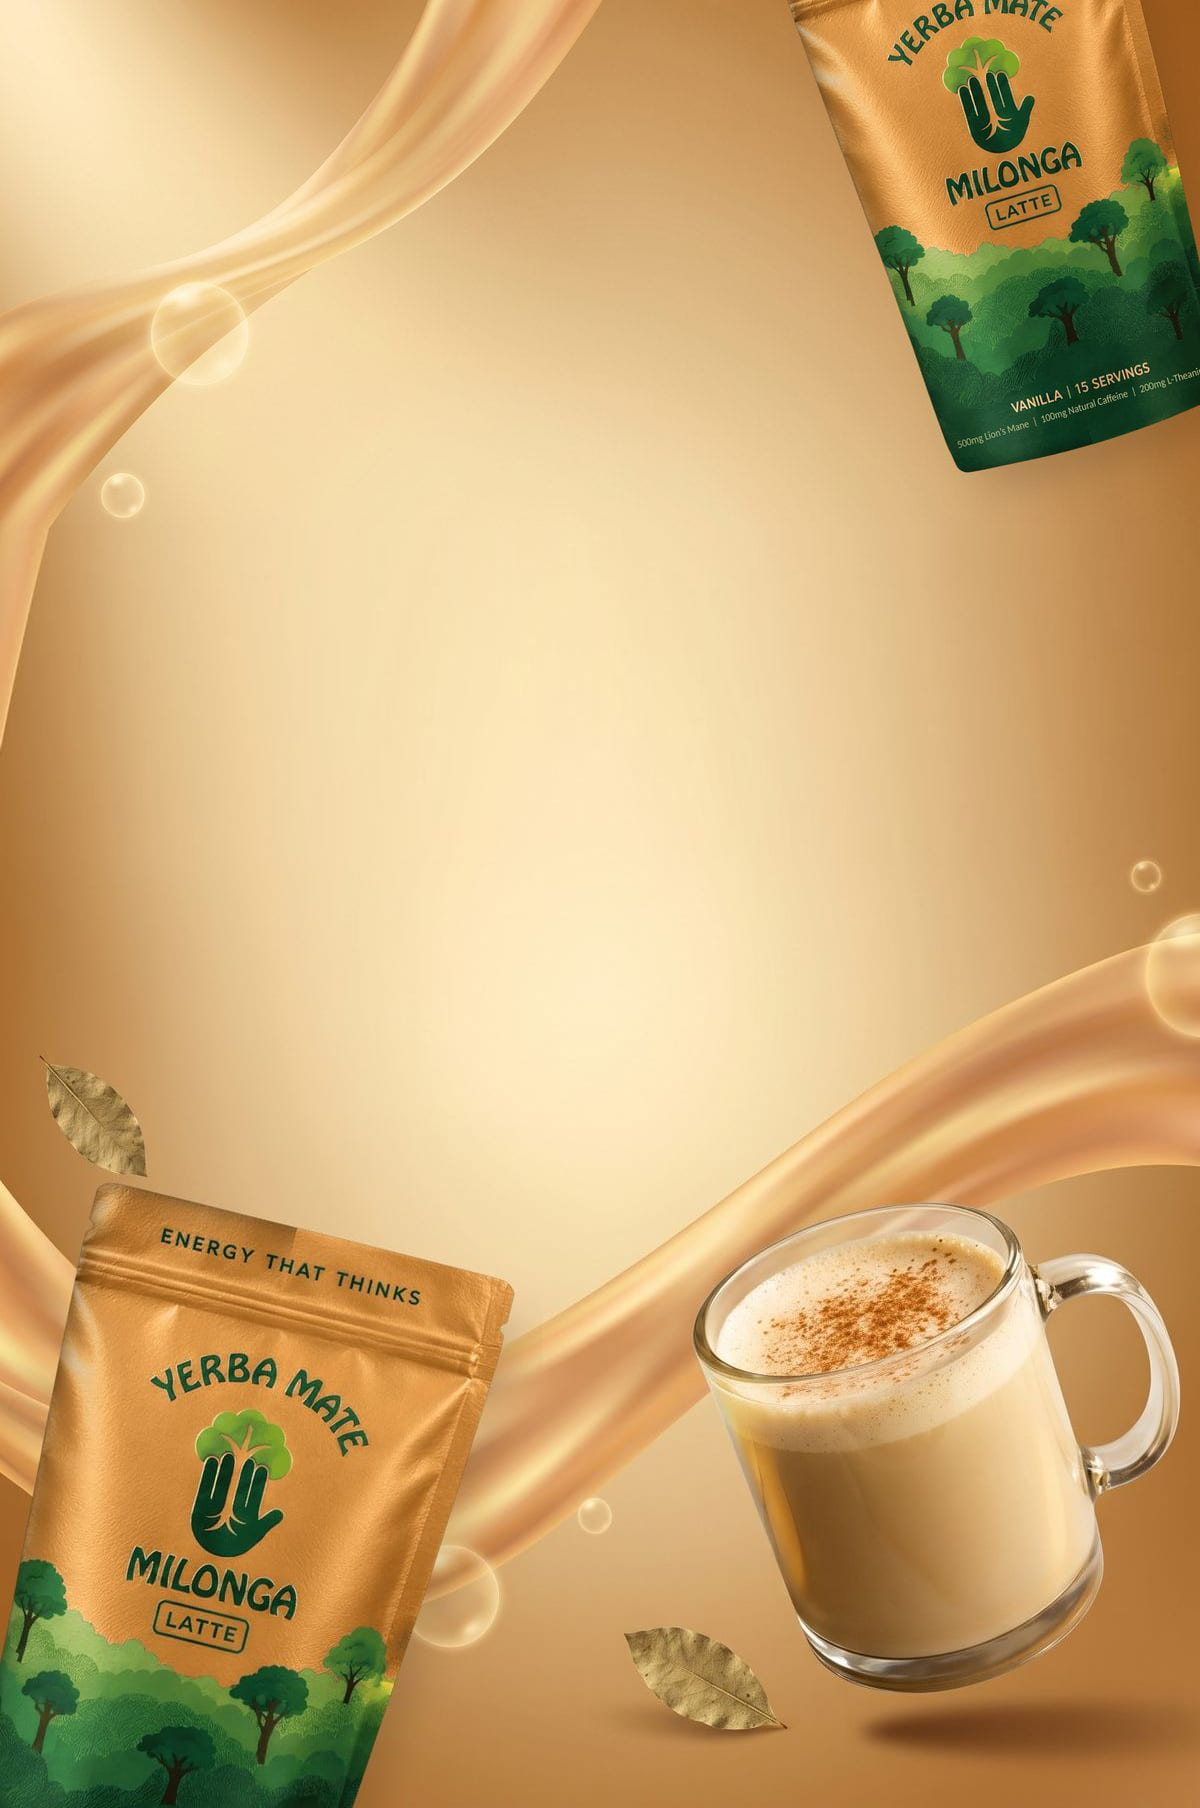
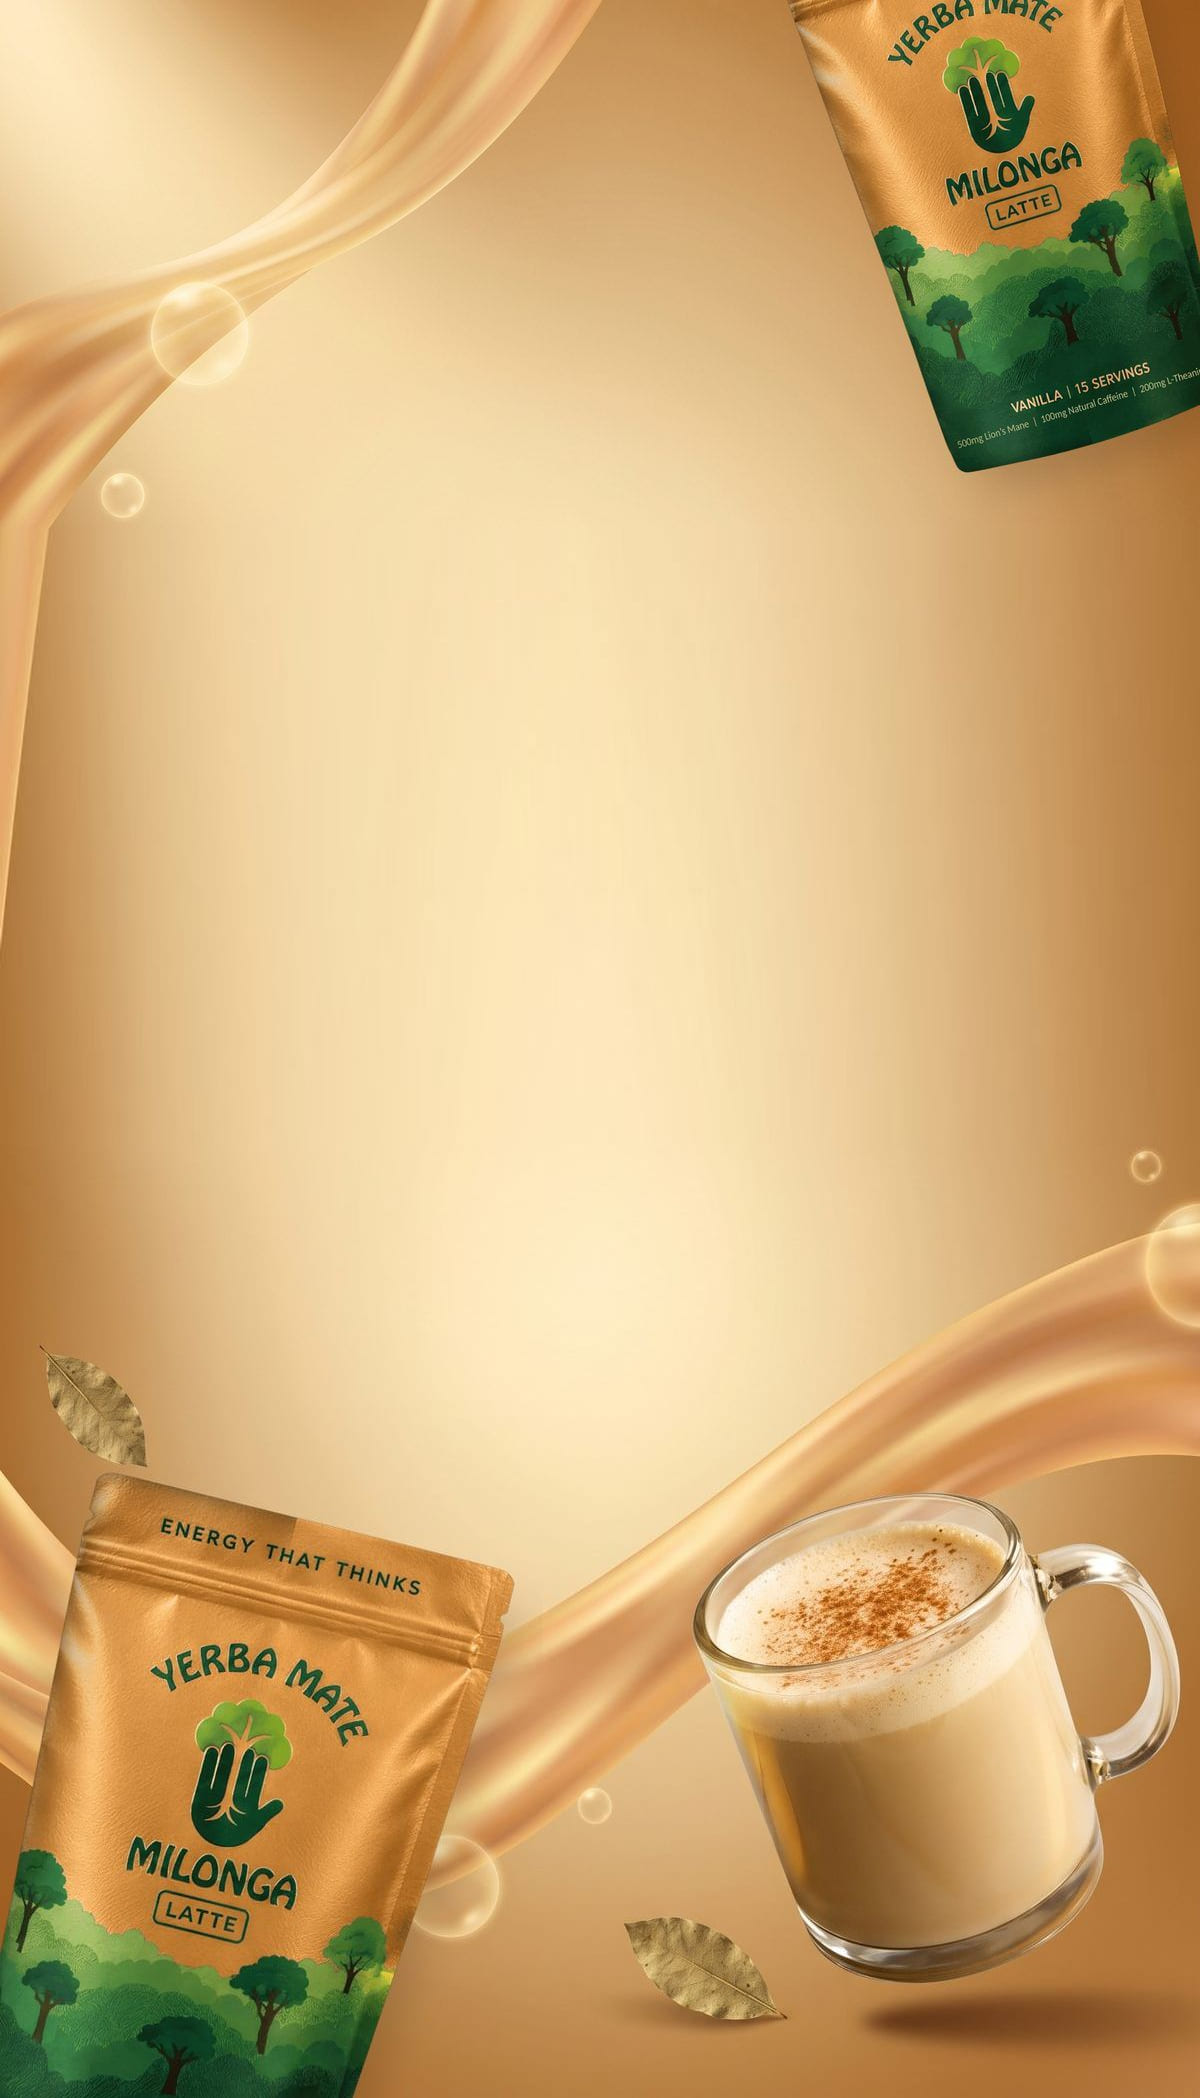
Welcome flow E1: subscribe + free frother + money-back lines under the hero button, first-cup row removed
Claude-Session: https://claude.ai/code/session_01NhEtXPnfeCJfN73SqBkUZ5

diff --git a/email-ds/exports/klaviyo/welcome-e1/welcome-e1.html b/email-ds/exports/klaviyo/welcome-e1/welcome-e1.html
@@ -21,10 +21,7 @@
     .code { font-size:24px !important; letter-spacing:4px !important; }
     .btn { padding:19px 28px !important; }
     .card { padding:36px 22px !important; }
-    .step { padding:0 3px !important; }
     .col { display:block !important; width:100% !important; padding:0 0 32px !important; }
-    .step-big { font-size:19px !important; line-height:24px !important; }
-    .step-cap { font-size:12px !important; line-height:15px !important; }
   }
   @media (prefers-color-scheme: dark) {
     .bg-hero { background-color:#F2D9A6 !important; }
@@ -39,8 +36,8 @@
 <table role="presentation" class="wrap" width="600" cellpadding="0" cellspacing="0" border="0" style="width:600px;max-width:600px;">
 
 <!-- ── 1 · THE REVEAL (gold silk, forest type) ───────────────────────── -->
-<tr><td class="bg-hero" align="center" valign="top" height="904" background="https://cdn.klaviyomail.com/company/TwvSnK/images/77f8ca1f-1973-4ad8-a8bd-2133aa45e3c2.jpeg" bgcolor="#F2D9A6" style="height:904px;background-color:#F2D9A6;background-image:url('https://cdn.klaviyomail.com/company/TwvSnK/images/77f8ca1f-1973-4ad8-a8bd-2133aa45e3c2.jpeg');background-size:cover;background-position:center top;background-repeat:no-repeat;padding:0;">
-<!--[if gte mso 9]><v:rect xmlns:v="urn:schemas-microsoft-com:vml" fill="true" stroke="false" style="width:600px;height:904px;"><v:fill type="frame" src="https://cdn.klaviyomail.com/company/TwvSnK/images/77f8ca1f-1973-4ad8-a8bd-2133aa45e3c2.jpeg" color="#F2D9A6" /><v:textbox inset="0,0,0,0"><![endif]-->
+<tr><td class="bg-hero" align="center" valign="top" height="1049" background="https://cdn.klaviyomail.com/company/TwvSnK/images/77f8ca1f-1973-4ad8-a8bd-2133aa45e3c2.jpeg" bgcolor="#F2D9A6" style="height:1049px;background-color:#F2D9A6;background-image:url('https://cdn.klaviyomail.com/company/TwvSnK/images/77f8ca1f-1973-4ad8-a8bd-2133aa45e3c2.jpeg');background-size:cover;background-position:center top;background-repeat:no-repeat;padding:0;">
+<!--[if gte mso 9]><v:rect xmlns:v="urn:schemas-microsoft-com:vml" fill="true" stroke="false" style="width:600px;height:1049px;"><v:fill type="frame" src="https://cdn.klaviyomail.com/company/TwvSnK/images/77f8ca1f-1973-4ad8-a8bd-2133aa45e3c2.jpeg" color="#F2D9A6" /><v:textbox inset="0,0,0,0"><![endif]-->
 <div class="hero-in" style="padding:32px 40px 0;font-family:'Montserrat','Helvetica Neue',Helvetica,Arial,sans-serif;color:#004D27;text-align:center;">
 <a href="https://milonga.life/?utm_source=klaviyo&amp;utm_medium=email&amp;utm_campaign=welcome_mystery_offer&amp;utm_content=e1_logo" target="_blank"><img src="https://cdn.klaviyomail.com/company/TwvSnK/images/b6a03046-605a-4e87-b22f-a530be1633e3.png" width="57" height="60" alt="Milonga" style="display:block;margin:0 auto;width:57px;height:60px;border:0;"></a>
 <div style="height:152px;line-height:152px;font-size:0;">&nbsp;</div>
@@ -56,6 +53,8 @@
 <div style="padding-top:18px;"><!--[if mso]>
 <v:roundrect xmlns:v="urn:schemas-microsoft-com:vml" xmlns:w="urn:schemas-microsoft-com:office:word" href="https://milonga.life/discount/WELCOME15?redirect=%2Fproducts%2Fthe-original-mate-latte&amp;utm_source=klaviyo&amp;utm_medium=email&amp;utm_campaign=welcome_mystery_offer&amp;utm_content=e1_hero_button" style="height:56px;v-text-anchor:middle;width:300px;" arcsize="50%" stroke="f" fillcolor="#004D27"><w:anchorlock/><center style="color:#F0EFDF;font-family:Arial,sans-serif;font-size:16px;font-weight:bold;letter-spacing:2px;">Claim my 15% off</center></v:roundrect>
 <![endif]--><!--[if !mso]><!-- --><a href="https://milonga.life/discount/WELCOME15?redirect=%2Fproducts%2Fthe-original-mate-latte&amp;utm_source=klaviyo&amp;utm_medium=email&amp;utm_campaign=welcome_mystery_offer&amp;utm_content=e1_hero_button" target="_blank" class="btn" style="display:inline-block;background-color:#004D27;border-radius:999px;padding:20px 40px;font-family:'Montserrat','Helvetica Neue',Helvetica,Arial,sans-serif;font-size:16px;line-height:16px;font-weight:700;letter-spacing:2px;text-transform:uppercase;color:#F0EFDF;text-decoration:none;box-shadow:0 4px 0 #00351B;">Claim my 15% off</a><!--<![endif]--></div>
+<div style="padding-top:18px;max-width:400px;margin:0 auto;font-size:15px;line-height:22px;font-weight:500;color:#12331F;">Or subscribe and <strong style="font-weight:700;color:#004D27;">save 30% on 30 or 60&nbsp;servings</strong>, plus a <strong style="font-weight:700;color:#004D27;">free milk frother</strong> in your first&nbsp;box.</div>
+<div style="padding-top:10px;font-size:12px;line-height:16px;font-weight:700;letter-spacing:2px;text-transform:uppercase;color:#004D27;">&#10003;&nbsp; 30-day money-back guarantee</div>
 </div>
 <!--[if gte mso 9]></v:textbox></v:rect><![endif]-->
 </td></tr>
@@ -93,28 +92,6 @@
 <tr><td class="pad bg-s2b" align="center" bgcolor="#017251" style="background-color:#017251;padding:4px 20px 56px;font-family:'Montserrat','Helvetica Neue',Helvetica,Arial,sans-serif;">
 <div style="padding-bottom:16px;font-size:12px;line-height:16px;font-weight:700;letter-spacing:3px;text-transform:uppercase;color:#E3BC62;">Plus, from the yerba mate</div>
 <div style="font-size:0;line-height:0;"><span class="benefit" style="display:inline-block;margin:0 4px 10px;background-color:#E3BC62;border-radius:999px;padding:9px 18px 9px 12px;font-family:'Montserrat','Helvetica Neue',Helvetica,Arial,sans-serif;font-size:12px;line-height:24px;font-weight:700;letter-spacing:1.2px;text-transform:uppercase;color:#004D27;white-space:nowrap;box-shadow:0 3px 0 #C9A24E;"><img src="https://cdn.klaviyomail.com/company/TwvSnK/images/94fbbc3b-39e1-406c-ab7d-58e127b459ad.png" width="24" height="24" alt="" role="presentation" style="display:inline-block;width:24px;height:24px;vertical-align:middle;border:0;margin-right:7px;"><span style="vertical-align:middle;">Antioxidants &amp; vitamins</span></span><span class="benefit" style="display:inline-block;margin:0 4px 10px;background-color:#E3BC62;border-radius:999px;padding:9px 18px 9px 12px;font-family:'Montserrat','Helvetica Neue',Helvetica,Arial,sans-serif;font-size:12px;line-height:24px;font-weight:700;letter-spacing:1.2px;text-transform:uppercase;color:#004D27;white-space:nowrap;box-shadow:0 3px 0 #C9A24E;"><img src="https://cdn.klaviyomail.com/company/TwvSnK/images/2ecca797-8785-4aba-a0e5-7f1713992824.png" width="24" height="24" alt="" role="presentation" style="display:inline-block;width:24px;height:24px;vertical-align:middle;border:0;margin-right:7px;"><span style="vertical-align:middle;">Gut &amp; immune support</span></span><span class="benefit" style="display:inline-block;margin:0 4px 10px;background-color:#E3BC62;border-radius:999px;padding:9px 18px 9px 12px;font-family:'Montserrat','Helvetica Neue',Helvetica,Arial,sans-serif;font-size:12px;line-height:24px;font-weight:700;letter-spacing:1.2px;text-transform:uppercase;color:#004D27;white-space:nowrap;box-shadow:0 3px 0 #C9A24E;"><img src="https://cdn.klaviyomail.com/company/TwvSnK/images/dd525317-14ee-4d17-876d-25ac373c7a45.png" width="24" height="24" alt="" role="presentation" style="display:inline-block;width:24px;height:24px;vertical-align:middle;border:0;margin-right:7px;"><span style="vertical-align:middle;">Metabolism support</span></span></div>
-</td></tr>
-
-<!-- your first cup: 8 oz, always -->
-<tr><td class="pad bg-page" align="center" bgcolor="#F0EFDF" style="background-color:#F0EFDF;padding:40px 40px 0;font-family:'Montserrat','Helvetica Neue',Helvetica,Arial,sans-serif;">
-<div style="font-size:12px;line-height:16px;font-weight:700;letter-spacing:3px;text-transform:uppercase;color:#004D27;">Your first cup &middot; hot or iced</div>
-<div style="padding:16px 0 0;"><table role="presentation" width="100%" cellpadding="0" cellspacing="0" border="0"><tr>
-<td class="step" width="33%" valign="top" align="center" style="width:33%;padding:0 0px;">
-<table role="presentation" width="100%" cellpadding="0" cellspacing="0" border="0"><tr><td align="center" bgcolor="#004D27" style="background-color:#004D27;border-radius:20px;padding:18px 8px 16px;font-family:'Montserrat','Helvetica Neue',Helvetica,Arial,sans-serif;">
-<div class="step-big" style="font-family:'Times New Roman',Times,Georgia,serif;font-size:30px;line-height:34px;font-weight:700;color:#E3BC62;white-space:nowrap;">2.5 tbsp</div>
-<div class="step-cap" style="padding-top:6px;font-size:13px;line-height:17px;font-weight:500;color:#FFFFFF;">of Mate Latte</div>
-</td></tr></table></td>
-<td class="step" width="33%" valign="top" align="center" style="width:33%;padding:0 6px;">
-<table role="presentation" width="100%" cellpadding="0" cellspacing="0" border="0"><tr><td align="center" bgcolor="#004D27" style="background-color:#004D27;border-radius:20px;padding:18px 8px 16px;font-family:'Montserrat','Helvetica Neue',Helvetica,Arial,sans-serif;">
-<div class="step-big" style="font-family:'Times New Roman',Times,Georgia,serif;font-size:30px;line-height:34px;font-weight:700;color:#E3BC62;white-space:nowrap;">8 oz</div>
-<div class="step-cap" style="padding-top:6px;font-size:13px;line-height:17px;font-weight:500;color:#FFFFFF;">milk or water</div>
-</td></tr></table></td>
-<td class="step" width="33%" valign="top" align="center" style="width:33%;padding:0 0px;">
-<table role="presentation" width="100%" cellpadding="0" cellspacing="0" border="0"><tr><td align="center" bgcolor="#004D27" style="background-color:#004D27;border-radius:20px;padding:18px 8px 16px;font-family:'Montserrat','Helvetica Neue',Helvetica,Arial,sans-serif;">
-<div class="step-big" style="font-family:'Times New Roman',Times,Georgia,serif;font-size:30px;line-height:34px;font-weight:700;color:#E3BC62;white-space:nowrap;">30 sec</div>
-<div class="step-cap" style="padding-top:6px;font-size:13px;line-height:17px;font-weight:500;color:#FFFFFF;">stir or froth</div>
-</td></tr></table></td>
-</tr></table></div>
 </td></tr>
 
 <!-- ── 3 · THE OFFER, AGAIN (forest card on beige) ──────────────────── -->

diff --git a/email-ds/refine/welcome-e1.html b/email-ds/refine/welcome-e1.html
@@ -36,10 +36,7 @@ body{margin:0;background:#2B3A31;padding:28px 0 60px}
     .code { font-size:24px !important; letter-spacing:4px !important; }
     .btn { padding:19px 28px !important; }
     .card { padding:36px 22px !important; }
-    .step { padding:0 3px !important; }
     .col { display:block !important; width:100% !important; padding:0 0 32px !important; }
-    .step-big { font-size:19px !important; line-height:24px !important; }
-    .step-cap { font-size:12px !important; line-height:15px !important; }
   }
   @media (prefers-color-scheme: dark) {
     .bg-hero { background-color:#F2D9A6 !important; }
@@ -54,8 +51,8 @@ body{margin:0;background:#2B3A31;padding:28px 0 60px}
 <table role="presentation" class="wrap" width="600" cellpadding="0" cellspacing="0" border="0" style="width:600px;max-width:600px;">
 
 <!-- ── 1 · THE REVEAL (gold silk, forest type) ───────────────────────── -->
-<tr><td class="bg-hero" align="center" valign="top" height="904" background="../exports/klaviyo/welcome-e1/img/hero-bg.jpg" bgcolor="#F2D9A6" style="height:904px;background-color:#F2D9A6;background-image:url('../exports/klaviyo/welcome-e1/img/hero-bg.jpg');background-size:cover;background-position:center top;background-repeat:no-repeat;padding:0;">
-<!--[if gte mso 9]><v:rect xmlns:v="urn:schemas-microsoft-com:vml" fill="true" stroke="false" style="width:600px;height:904px;"><v:fill type="frame" src="../exports/klaviyo/welcome-e1/img/hero-bg.jpg" color="#F2D9A6" /><v:textbox inset="0,0,0,0"><![endif]-->
+<tr><td class="bg-hero" align="center" valign="top" height="1049" background="../exports/klaviyo/welcome-e1/img/hero-bg.jpg" bgcolor="#F2D9A6" style="height:1049px;background-color:#F2D9A6;background-image:url('../exports/klaviyo/welcome-e1/img/hero-bg.jpg');background-size:cover;background-position:center top;background-repeat:no-repeat;padding:0;">
+<!--[if gte mso 9]><v:rect xmlns:v="urn:schemas-microsoft-com:vml" fill="true" stroke="false" style="width:600px;height:1049px;"><v:fill type="frame" src="../exports/klaviyo/welcome-e1/img/hero-bg.jpg" color="#F2D9A6" /><v:textbox inset="0,0,0,0"><![endif]-->
 <div class="hero-in" style="padding:32px 40px 0;font-family:'Montserrat','Helvetica Neue',Helvetica,Arial,sans-serif;color:#004D27;text-align:center;">
 <a href="https://milonga.life/?utm_source=klaviyo&amp;utm_medium=email&amp;utm_campaign=welcome_mystery_offer&amp;utm_content=e1_logo" target="_blank"><img src="../exports/klaviyo/welcome-e1/img/logo-green.png" width="57" height="60" alt="Milonga" style="display:block;margin:0 auto;width:57px;height:60px;border:0;"></a>
 <div style="height:152px;line-height:152px;font-size:0;">&nbsp;</div>
@@ -71,6 +68,8 @@ body{margin:0;background:#2B3A31;padding:28px 0 60px}
 <div style="padding-top:18px;"><!--[if mso]>
 <v:roundrect xmlns:v="urn:schemas-microsoft-com:vml" xmlns:w="urn:schemas-microsoft-com:office:word" href="https://milonga.life/discount/WELCOME15?redirect=%2Fproducts%2Fthe-original-mate-latte&amp;utm_source=klaviyo&amp;utm_medium=email&amp;utm_campaign=welcome_mystery_offer&amp;utm_content=e1_hero_button" style="height:56px;v-text-anchor:middle;width:300px;" arcsize="50%" stroke="f" fillcolor="#004D27"><w:anchorlock/><center style="color:#F0EFDF;font-family:Arial,sans-serif;font-size:16px;font-weight:bold;letter-spacing:2px;">Claim my 15% off</center></v:roundrect>
 <![endif]--><!--[if !mso]><!-- --><a href="https://milonga.life/discount/WELCOME15?redirect=%2Fproducts%2Fthe-original-mate-latte&amp;utm_source=klaviyo&amp;utm_medium=email&amp;utm_campaign=welcome_mystery_offer&amp;utm_content=e1_hero_button" target="_blank" class="btn" style="display:inline-block;background-color:#004D27;border-radius:999px;padding:20px 40px;font-family:'Montserrat','Helvetica Neue',Helvetica,Arial,sans-serif;font-size:16px;line-height:16px;font-weight:700;letter-spacing:2px;text-transform:uppercase;color:#F0EFDF;text-decoration:none;box-shadow:0 4px 0 #00351B;">Claim my 15% off</a><!--<![endif]--></div>
+<div style="padding-top:18px;max-width:400px;margin:0 auto;font-size:15px;line-height:22px;font-weight:500;color:#12331F;">Or subscribe and <strong style="font-weight:700;color:#004D27;">save 30% on 30 or 60&nbsp;servings</strong>, plus a <strong style="font-weight:700;color:#004D27;">free milk frother</strong> in your first&nbsp;box.</div>
+<div style="padding-top:10px;font-size:12px;line-height:16px;font-weight:700;letter-spacing:2px;text-transform:uppercase;color:#004D27;">&#10003;&nbsp; 30-day money-back guarantee</div>
 </div>
 <!--[if gte mso 9]></v:textbox></v:rect><![endif]-->
 </td></tr>
@@ -108,28 +107,6 @@ body{margin:0;background:#2B3A31;padding:28px 0 60px}
 <tr><td class="pad bg-s2b" align="center" bgcolor="#017251" style="background-color:#017251;padding:4px 20px 56px;font-family:'Montserrat','Helvetica Neue',Helvetica,Arial,sans-serif;">
 <div style="padding-bottom:16px;font-size:12px;line-height:16px;font-weight:700;letter-spacing:3px;text-transform:uppercase;color:#E3BC62;">Plus, from the yerba mate</div>
 <div style="font-size:0;line-height:0;"><span class="benefit" style="display:inline-block;margin:0 4px 10px;background-color:#E3BC62;border-radius:999px;padding:9px 18px 9px 12px;font-family:'Montserrat','Helvetica Neue',Helvetica,Arial,sans-serif;font-size:12px;line-height:24px;font-weight:700;letter-spacing:1.2px;text-transform:uppercase;color:#004D27;white-space:nowrap;box-shadow:0 3px 0 #C9A24E;"><img src="../exports/klaviyo/welcome-e1/img/glyph-antioxidants.png" width="24" height="24" alt="" role="presentation" style="display:inline-block;width:24px;height:24px;vertical-align:middle;border:0;margin-right:7px;"><span style="vertical-align:middle;">Antioxidants &amp; vitamins</span></span><span class="benefit" style="display:inline-block;margin:0 4px 10px;background-color:#E3BC62;border-radius:999px;padding:9px 18px 9px 12px;font-family:'Montserrat','Helvetica Neue',Helvetica,Arial,sans-serif;font-size:12px;line-height:24px;font-weight:700;letter-spacing:1.2px;text-transform:uppercase;color:#004D27;white-space:nowrap;box-shadow:0 3px 0 #C9A24E;"><img src="../exports/klaviyo/welcome-e1/img/glyph-immune.png" width="24" height="24" alt="" role="presentation" style="display:inline-block;width:24px;height:24px;vertical-align:middle;border:0;margin-right:7px;"><span style="vertical-align:middle;">Gut &amp; immune support</span></span><span class="benefit" style="display:inline-block;margin:0 4px 10px;background-color:#E3BC62;border-radius:999px;padding:9px 18px 9px 12px;font-family:'Montserrat','Helvetica Neue',Helvetica,Arial,sans-serif;font-size:12px;line-height:24px;font-weight:700;letter-spacing:1.2px;text-transform:uppercase;color:#004D27;white-space:nowrap;box-shadow:0 3px 0 #C9A24E;"><img src="../exports/klaviyo/welcome-e1/img/glyph-metabolism.png" width="24" height="24" alt="" role="presentation" style="display:inline-block;width:24px;height:24px;vertical-align:middle;border:0;margin-right:7px;"><span style="vertical-align:middle;">Metabolism support</span></span></div>
-</td></tr>
-
-<!-- your first cup: 8 oz, always -->
-<tr><td class="pad bg-page" align="center" bgcolor="#F0EFDF" style="background-color:#F0EFDF;padding:40px 40px 0;font-family:'Montserrat','Helvetica Neue',Helvetica,Arial,sans-serif;">
-<div style="font-size:12px;line-height:16px;font-weight:700;letter-spacing:3px;text-transform:uppercase;color:#004D27;">Your first cup &middot; hot or iced</div>
-<div style="padding:16px 0 0;"><table role="presentation" width="100%" cellpadding="0" cellspacing="0" border="0"><tr>
-<td class="step" width="33%" valign="top" align="center" style="width:33%;padding:0 0px;">
-<table role="presentation" width="100%" cellpadding="0" cellspacing="0" border="0"><tr><td align="center" bgcolor="#004D27" style="background-color:#004D27;border-radius:20px;padding:18px 8px 16px;font-family:'Montserrat','Helvetica Neue',Helvetica,Arial,sans-serif;">
-<div class="step-big" style="font-family:'Times New Roman',Times,Georgia,serif;font-size:30px;line-height:34px;font-weight:700;color:#E3BC62;white-space:nowrap;">2.5 tbsp</div>
-<div class="step-cap" style="padding-top:6px;font-size:13px;line-height:17px;font-weight:500;color:#FFFFFF;">of Mate Latte</div>
-</td></tr></table></td>
-<td class="step" width="33%" valign="top" align="center" style="width:33%;padding:0 6px;">
-<table role="presentation" width="100%" cellpadding="0" cellspacing="0" border="0"><tr><td align="center" bgcolor="#004D27" style="background-color:#004D27;border-radius:20px;padding:18px 8px 16px;font-family:'Montserrat','Helvetica Neue',Helvetica,Arial,sans-serif;">
-<div class="step-big" style="font-family:'Times New Roman',Times,Georgia,serif;font-size:30px;line-height:34px;font-weight:700;color:#E3BC62;white-space:nowrap;">8 oz</div>
-<div class="step-cap" style="padding-top:6px;font-size:13px;line-height:17px;font-weight:500;color:#FFFFFF;">milk or water</div>
-</td></tr></table></td>
-<td class="step" width="33%" valign="top" align="center" style="width:33%;padding:0 0px;">
-<table role="presentation" width="100%" cellpadding="0" cellspacing="0" border="0"><tr><td align="center" bgcolor="#004D27" style="background-color:#004D27;border-radius:20px;padding:18px 8px 16px;font-family:'Montserrat','Helvetica Neue',Helvetica,Arial,sans-serif;">
-<div class="step-big" style="font-family:'Times New Roman',Times,Georgia,serif;font-size:30px;line-height:34px;font-weight:700;color:#E3BC62;white-space:nowrap;">30 sec</div>
-<div class="step-cap" style="padding-top:6px;font-size:13px;line-height:17px;font-weight:500;color:#FFFFFF;">stir or froth</div>
-</td></tr></table></td>
-</tr></table></div>
 </td></tr>
 
 <!-- ── 3 · THE OFFER, AGAIN (forest card on beige) ──────────────────── -->
